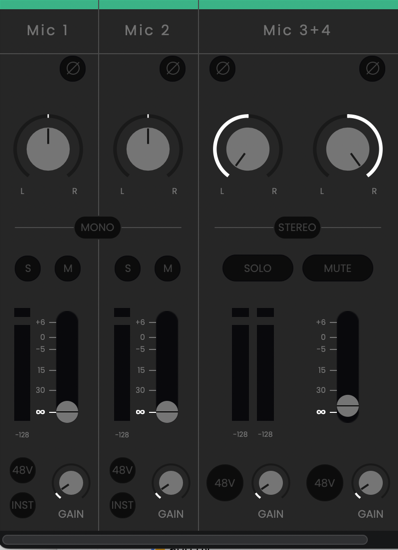
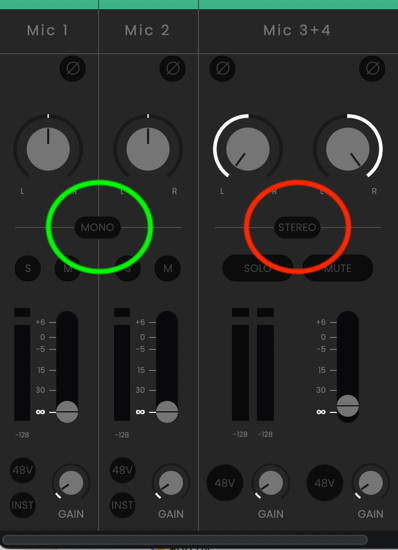
doc picture annotation

diff --git a/README_EVO16.md b/README_EVO16.md
@@ -1,8 +1,13 @@
 # 🎛 EVO-16 Setup
 
+> 📌 Follow these instructions **only** if you are using **EVO-16 together with EVO-SP8**.  
+> 📌 If you're using **EVO-16 alone**, you can skip this guide.
+
+---
+
 ## 🔌 Connection
 
-If you're using more than eight channels, connect the **EVO-16** with the **EVO-SP8** using **optical cables** only (shown in green):
+Connect the **EVO-16** to the **EVO-SP8** using **optical cables only** (highlighted in green):
 
 ![Optical Connection](assets/doc/optical.png)
 
@@ -10,16 +15,18 @@ If you're using more than eight channels, connect the **EVO-16** with the **EVO-
 
 ## 🎚 Consistent Sampling Rate (SR)
 
-When EVO-16 and EVO-SP8 are connected, both must operate at the **same sampling rate (SR)**.  
-⚠ The SR setup method differs between the two devices.
+When EVO-16 and EVO-SP8 are connected, both devices must operate at the **same sampling rate (SR)**.  
+⚠ The setup method differs between the two devices.
 
-### 🖥 Set SR on EVO-16 (macOS only)
+---
+
+### 🖥 Set SR on EVO-16 (macOS Only)
 
 1. Open **Audio MIDI Setup** from Launchpad:
 
    ![MIDI Setup Icon](assets/doc/midi_icon.png)
 
-2. Select **EVO-16**, then set its SR to **44,100 Hz**:
+2. Select **EVO-16**, then set the sample rate to **44,100 Hz**:
 
    ![Set SR to 44100](assets/doc/midi.png)
 
@@ -27,31 +34,33 @@ When EVO-16 and EVO-SP8 are connected, both must operate at the **same sampling 
 
 ### 🎛 Set SR on EVO-SP8
 
-1. On the EVO-SP8 hardware, press the main knob.
-2. Navigate to **Sample Rate** and change the value to **44.1KHz**. See picture below.
-
-   ![Verify SR](assets/doc/screen.png)
+1. On the **EVO-SP8** hardware, press the main knob.
+2. Navigate to **Sample Rate** and set it to **44.1 kHz**.
 
 ---
 
 ### ✅ Verify SR Consistency
 
 On both devices, go to **Status** via the main knob.  
-Ensure the display shows **44KHz** on each small screen.
+You should see **44 kHz** displayed on each of their small screens.
+
+![Verify SR](assets/doc/screen.png)
+
 
 ---
 
 ## 🎙 Mono Routing
 
-Ensure channels are **not paired** for stereo.
+Ensure input channels are configured for **mono**, not stereo pairing.
 
 In the image below:
 
-- ✅ Channel 1 & 2 are **MONO** (correct)  
-- ❌ Channel 3 & 4 are **STEREO** (incorrect) — click **STEREO** to decouple
+- ✅ Channels 1 & 2 are **MONO** — correct
+- ❌ Channels 3 & 4 are **STEREO** — incorrect  
+  👉 Click **STEREO** between them to decouple
 
 ![Mono Routing](assets/doc/mono.png)
 
-Also, in `View → Show System Panel`, decouple all channels:
+Additionally, go to `View → Show System Panel` and decouple all channels:
 
 ![System Panel](assets/doc/mono_sys.png)

diff --git a/README.md b/README.md
@@ -10,9 +10,12 @@ pip install -r requirements.txt
 NiceGUI requires **NumPy 2**, while **Pyrocko (Snuffler)** is only compatible with **NumPy 1**.  
 To use both:
 
-- You **must** install **Pyrocko** in a **separate conda environment** (`pip install pyrocko`).
-- The UI will automatically detect your `snuffler` executable, such as `/opt/anaconda3/envs/some_evn/bin/snuffler`. If
-  not, you can always specify it in the UI.
+- You **must** install **Pyrocko** in a **separate conda environment** (e.g. `pip install pyrocko`).
+- If **Snuffler** is already working, you don’t need to reinstall it — just install **Field UI** in another environment.
+- The UI will automatically detect your `snuffler` executable (e.g. `/opt/anaconda3/envs/some_env/bin/snuffler`).  
+  If not, you can manually specify its path in the UI.
+
+---
 
 ## ▶ Run the App
 
@@ -28,6 +31,9 @@ Full CLI options:
 python app.py [-h] [--theme {light,dark}] [--port PORT]
 ```
 
+---
+
 ## 🎛 EVO-16 Integration
 
-To ensure **EVO-16** functions properly, please follow the setup guide in [📘 EVO-16 Manual](README_EVO16.md)
+To ensure **EVO-16** works properly, please follow the setup guide in  
+[📘 EVO-16 Manual](README_EVO16.md)
